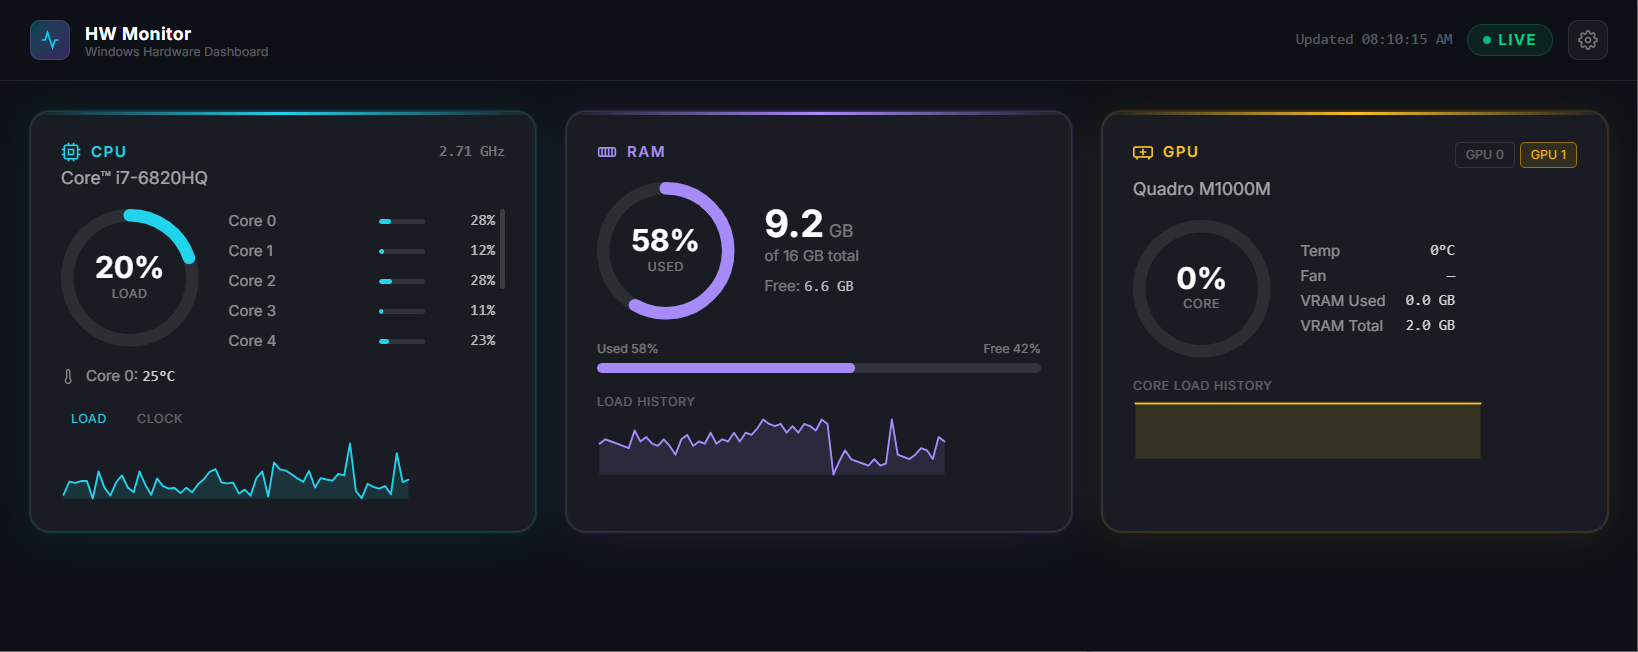
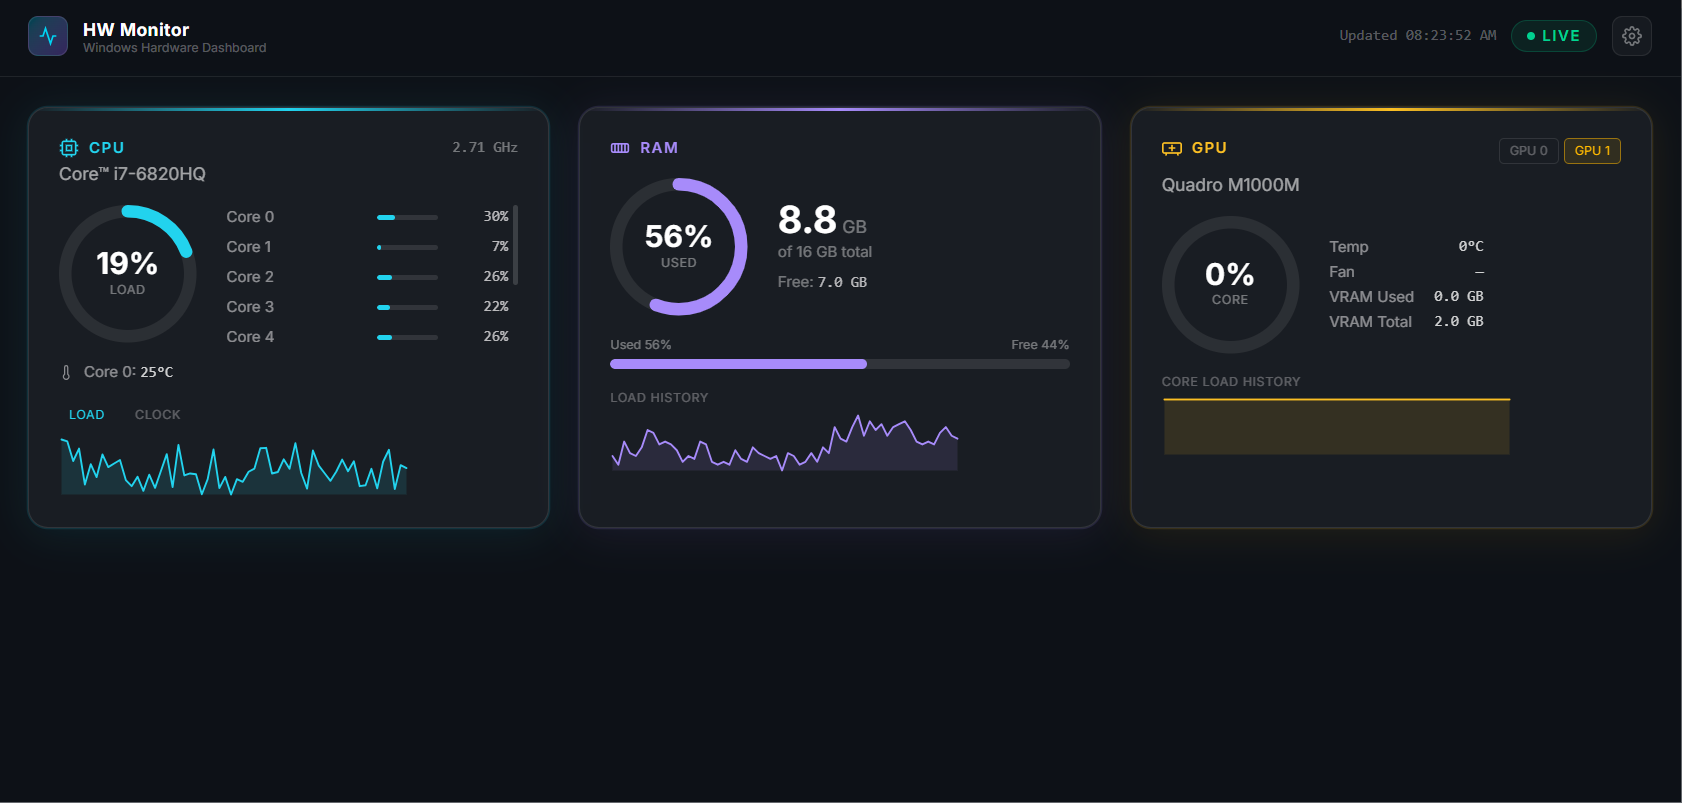
Updated images in readme files

diff --git a/README.md b/README.md
@@ -4,15 +4,11 @@ Real-time hardware monitoring dashboard for Windows machines — CPU, RAM, and
 GPU metrics streamed live to a browser via **GraphQL subscriptions over
 WebSocket**.
 
-<div style="display: grid; grid-template-columns: 1.6fr 1fr; gap: 12px; align-items: center; margin: 20px 0;">
-  <div style="display: flex; flex-direction: column; gap: 12px;">
-    <img src="assets/UI.png" alt="Hardware Monitor UI" style="width: 100%; border-radius: 6px; box-shadow: 0 4px 6px -1px rgba(0, 0, 0, 0.1);" />
-    <img src="assets/UI_1.png" alt="Hardware Monitor UI Detail" style="width: 100%; border-radius: 6px; box-shadow: 0 4px 6px -1px rgba(0, 0, 0, 0.1);" />
-  </div>
-  <div>
-    <img src="assets/UI_2.png" alt="Hardware Monitor UI Settings" style="width: 100%; border-radius: 6px; box-shadow: 0 4px 6px -1px rgba(0, 0, 0, 0.1);" />
-  </div>
-</div>
+<p align="center">
+  <img src="assets/UI.png" alt="Hardware Monitor UI" height="180" align="middle" />
+  <img src="assets/UI_1.png" alt="Hardware Monitor UI Detail" height="180" align="middle" />
+  <img src="assets/UI_2.png" alt="Hardware Monitor UI Settings" height="180" align="middle" />
+</p>
 
 ## Repository Layout
 
@@ -29,11 +25,11 @@ hardware-monitor-win/
 │  Windows Host                                                   │
 │                                                                 │
 │  ┌──────────────┐  REST/:5390   ┌────────────────────────────┐ │
-│  │  Collector   │──────────────▶│  Apollo GraphQL Server     │ │
+│  │  Collector   │─────────────▶│  Apollo GraphQL Server     │ │
 │  │  (npm run    │               │  HTTP  :4000/graphql       │ │
 │  │  collector)  │               │  WS    :4000/graphql       │ │
 │  └──────────────┘               └────────────┬───────────────┘ │
-│                                              │ WebSocket        │
+│                                             │ WebSocket        │
 │  ┌──────────────────────────────────────────▼───────────────┐  │
 │  │  Browser — http://localhost:5173                         │  │
 │  │  React 19 + Apollo Client (graphql-ws subscription)      │  │

diff --git a/ui/README.md b/ui/README.md
@@ -4,15 +4,11 @@ A real-time Windows hardware monitoring dashboard built with **React 19**,
 **Apollo Client**, and **TailwindCSS**. Connects to the GraphQL server via
 **WebSocket subscriptions** for live CPU, RAM, and GPU metrics.
 
-<div style="display: grid; grid-template-columns: 1.6fr 1fr; gap: 12px; align-items: center; margin: 20px 0;">
-  <div style="display: flex; flex-direction: column; gap: 12px;">
-    <img src="../assets/UI.png" alt="Hardware Monitor UI" style="width: 100%; border-radius: 6px; box-shadow: 0 4px 6px -1px rgba(0, 0, 0, 0.1);" />
-    <img src="../assets/UI_1.png" alt="Hardware Monitor UI Detail" style="width: 100%; border-radius: 6px; box-shadow: 0 4px 6px -1px rgba(0, 0, 0, 0.1);" />
-  </div>
-  <div>
-    <img src="../assets/UI_2.png" alt="Hardware Monitor UI Settings" style="width: 100%; border-radius: 6px; box-shadow: 0 4px 6px -1px rgba(0, 0, 0, 0.1);" />
-  </div>
-</div>
+<p align="center">
+  <img src="../assets/UI.png" alt="Hardware Monitor UI" height="180" align="middle" />
+  <img src="../assets/UI_1.png" alt="Hardware Monitor UI Detail" height="180" align="middle" />
+  <img src="../assets/UI_2.png" alt="Hardware Monitor UI Settings" height="180" align="middle" />
+</p>
 
 ## Stack
 